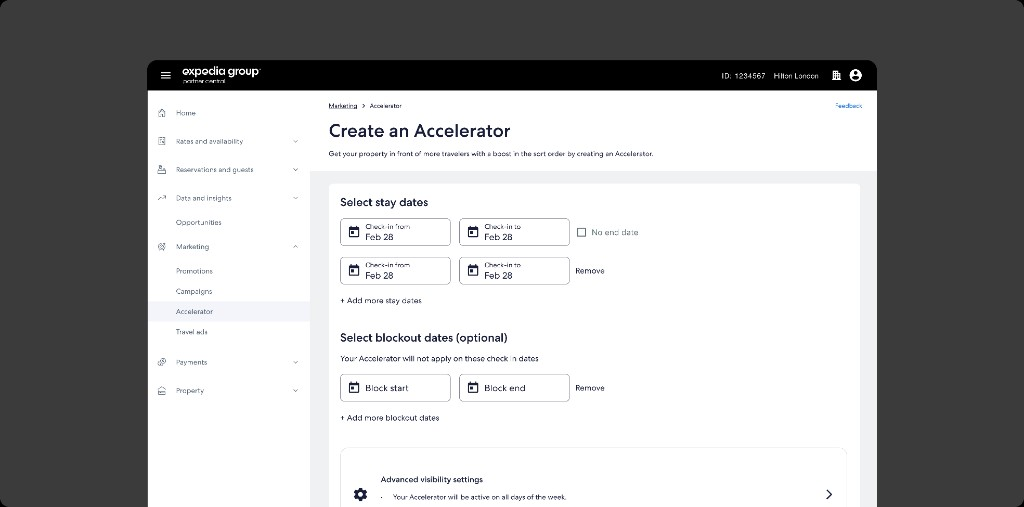
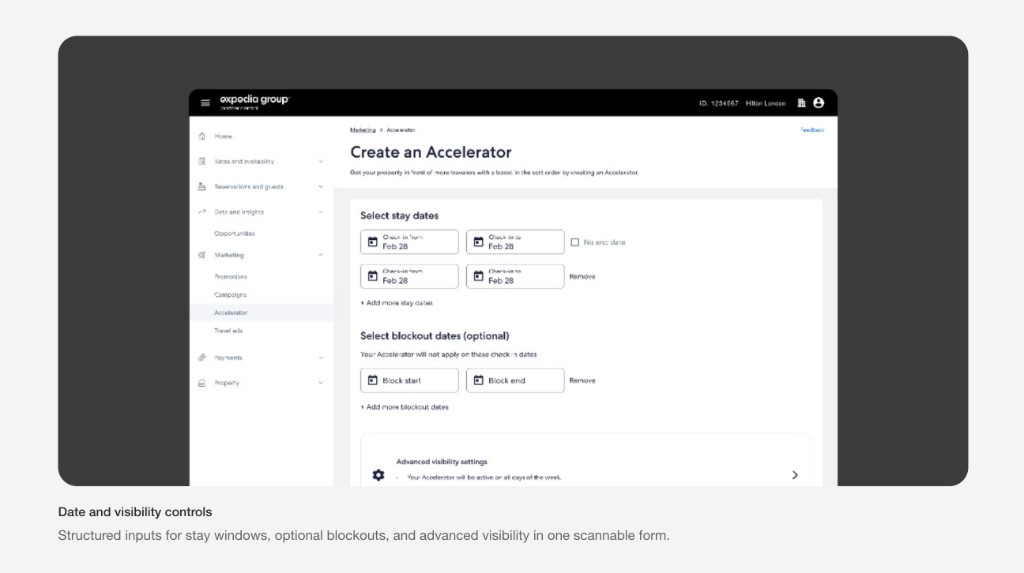
Refine Expedia Accelerator Interface refinement screens and trim narrative.
Adds search impressions as the closing hi-fi screen, updates stay-date controls as second-to-last, and removes System thinking, Vision, and Impact sections before Interface refinement.

diff --git a/src/app/data/caseStudies/expediaAccelerator.ts b/src/app/data/caseStudies/expediaAccelerator.ts
@@ -20,12 +20,12 @@ import expediaAcceleratorDataAnalysis from '../../../assets/expedia-accelerator-
 import expediaAcceleratorPartnerResearch from '../../../assets/expedia-accelerator-partner-research.png';
 import expediaAcceleratorIdeationFigma from '../../../assets/expedia-accelerator-ideation-figma.png';
 import expediaAcceleratorDesignCritique from '../../../assets/expedia-accelerator-design-critique.png';
-import expediaAcceleratorLofiWireframe from '../../../assets/expedia-accelerator-lofi-wireframe.png';
 import expediaAcceleratorUiCreateCalendar from '../../../assets/expedia-accelerator-ui-create-calendar.png';
 import expediaAcceleratorUiPerformanceDashboard from '../../../assets/expedia-accelerator-ui-performance-dashboard.png';
 import expediaAcceleratorUiMetricCards from '../../../assets/expedia-accelerator-ui-metric-cards.png';
 import expediaAcceleratorUiStayDates from '../../../assets/expedia-accelerator-ui-stay-dates.png';
 import expediaAcceleratorUiRateSelection from '../../../assets/expedia-accelerator-ui-rate-selection.png';
+import expediaAcceleratorUiSearchImpressions from '../../../assets/expedia-accelerator-ui-search-impressions.png';
 
 /** Padded duo break: wide process or product screen left, supporting screen right. */
 const sonosDuoImage = (
@@ -329,32 +329,6 @@ export const expediaAcceleratorContent: CaseStudyContent = {
         ),
       },
       {
-        heading: 'System thinking and data-informed iteration',
-        paragraphs: [
-          'We mapped touchpoints across search results, listing pages, partner dashboards, and billing, then partnered with adjacent product teams to align UI and reduce fragmentation. Reusable components were proposed for future monetization tools.',
-          'With data science, we tracked funnel drop-off, refined activation, A/B tested CTA language and default budgets, and used clickstream data to validate setup abandonment hypotheses, keeping design and data in lockstep so partners could trust what they saw.',
-        ],
-      },
-      {
-        heading: 'Vision, leadership, and team impact',
-        paragraphs: [
-          'A north-star prototype envisioned a self-optimizing, AI-assisted ad platform; a modular system was roadmapped for budget recommendations, predictive bidding, and ROI forecasting. I co-led strategy with PM and engineering, advocated for UX in quarterly planning, and facilitated crits, retros, and co-creation workshops.',
-          'I mentored two mid-level designers on complementary monetization features, hosted a behavioral-design lunch and learn, and helped introduce experience principles that now guide monetization product decisions org-wide.',
-        ],
-      },
-      {
-        heading: 'Impact and outcomes',
-        paragraphs: [
-          'Accelerator empowers hotel partners to optimize their advertising strategies, improve search rankings, and drive better results with a modern, intuitive experience and comprehensive insights.',
-          'Within three months of launch, partner visibility in search results rose roughly 30%. Campaign setup success reached 80% versus 54% with the previous solution. CSAT for the ads experience climbed 20 points; partner opt-in doubled in six months, contributing to a 15% lift in quarterly revenue from long-tail partners.',
-        ],
-        image: {
-          ...sonosDuoImage(expediaAcceleratorLofiWireframe, expediaAcceleratorCreateFlow, 'wide'),
-          caption:
-            'From low-fidelity exploration to shipped Partner Central flows: transparency, behavioral design, and clear performance storytelling.',
-        },
-      },
-      {
         heading: 'Interface refinement',
         paragraphs: [
           'The shipped Partner Central experience balances information density with clarity: consistent spacing, predictable components, and interaction patterns that scale from campaign setup through performance reporting.',
@@ -388,20 +362,28 @@ export const expediaAcceleratorContent: CaseStudyContent = {
                 'Stay dates, blockouts, compensation preview, and launch review in a single guided setup path.',
             },
             {
-              src: expediaAcceleratorUiStayDates,
-              objectFit: 'contain',
-              alt: 'Stay dates and blockout date fields with advanced visibility settings',
-              title: 'Date and visibility controls',
-              caption:
-                'Structured inputs for stay windows, optional blockouts, and advanced visibility in one scannable form.',
-            },
-            {
               src: expediaAcceleratorUiRateSelection,
               objectFit: 'contain',
               alt: 'Rate plan and marketplace selection with radio hierarchy and helper copy',
               title: 'Rate plan and marketplace selection',
               caption:
                 'Radio hierarchy, helper copy, and WCAG-aligned contrast for long-form decisions.',
+            },
+            {
+              src: expediaAcceleratorUiStayDates,
+              objectFit: 'contain',
+              alt: 'Create an Accelerator stay dates, blockout dates, and advanced visibility settings',
+              title: 'Date and visibility controls',
+              caption:
+                'Structured inputs for stay windows, optional blockouts, and advanced visibility in one scannable form.',
+            },
+            {
+              src: expediaAcceleratorUiSearchImpressions,
+              objectFit: 'contain',
+              alt: 'Search impressions performance chart with Accelerator lift, blackout dates, and rate plan breakdown',
+              title: 'Search impressions and rate plan performance',
+              caption:
+                'Partners compare estimated versus Accelerator-driven impressions over time, then drill into revenue, room nights, and bookings by rate plan.',
             },
           ],
         },
